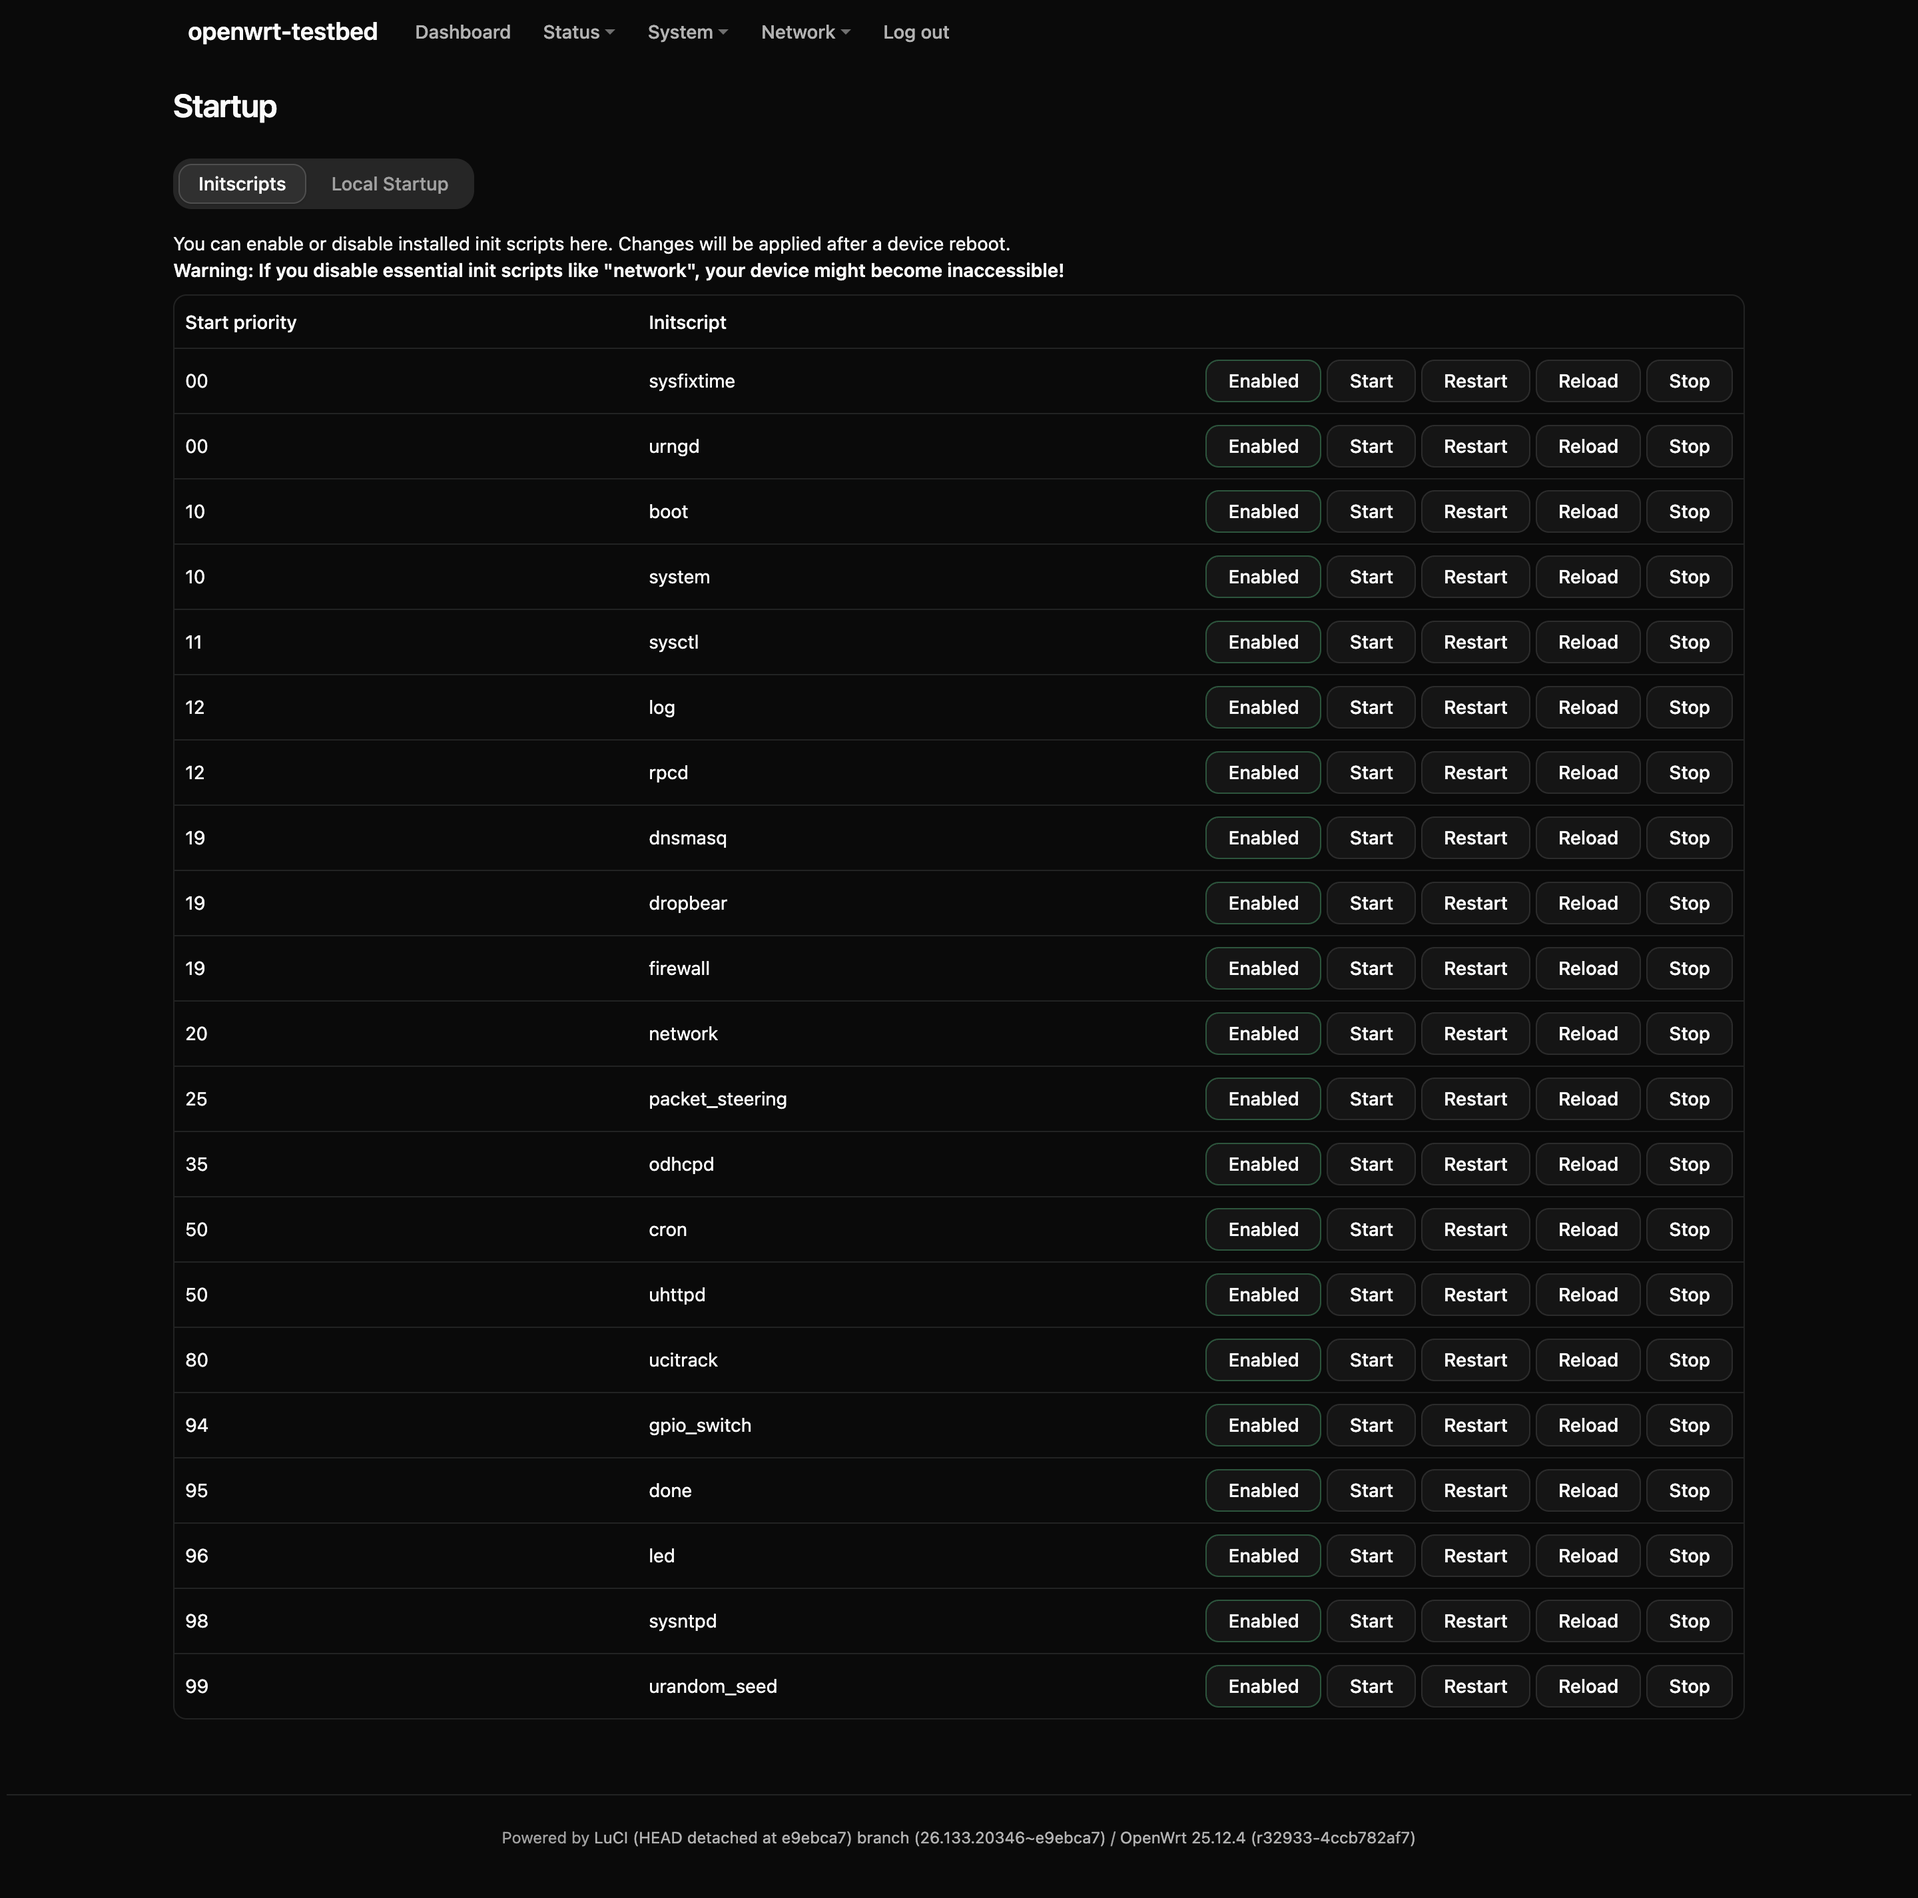
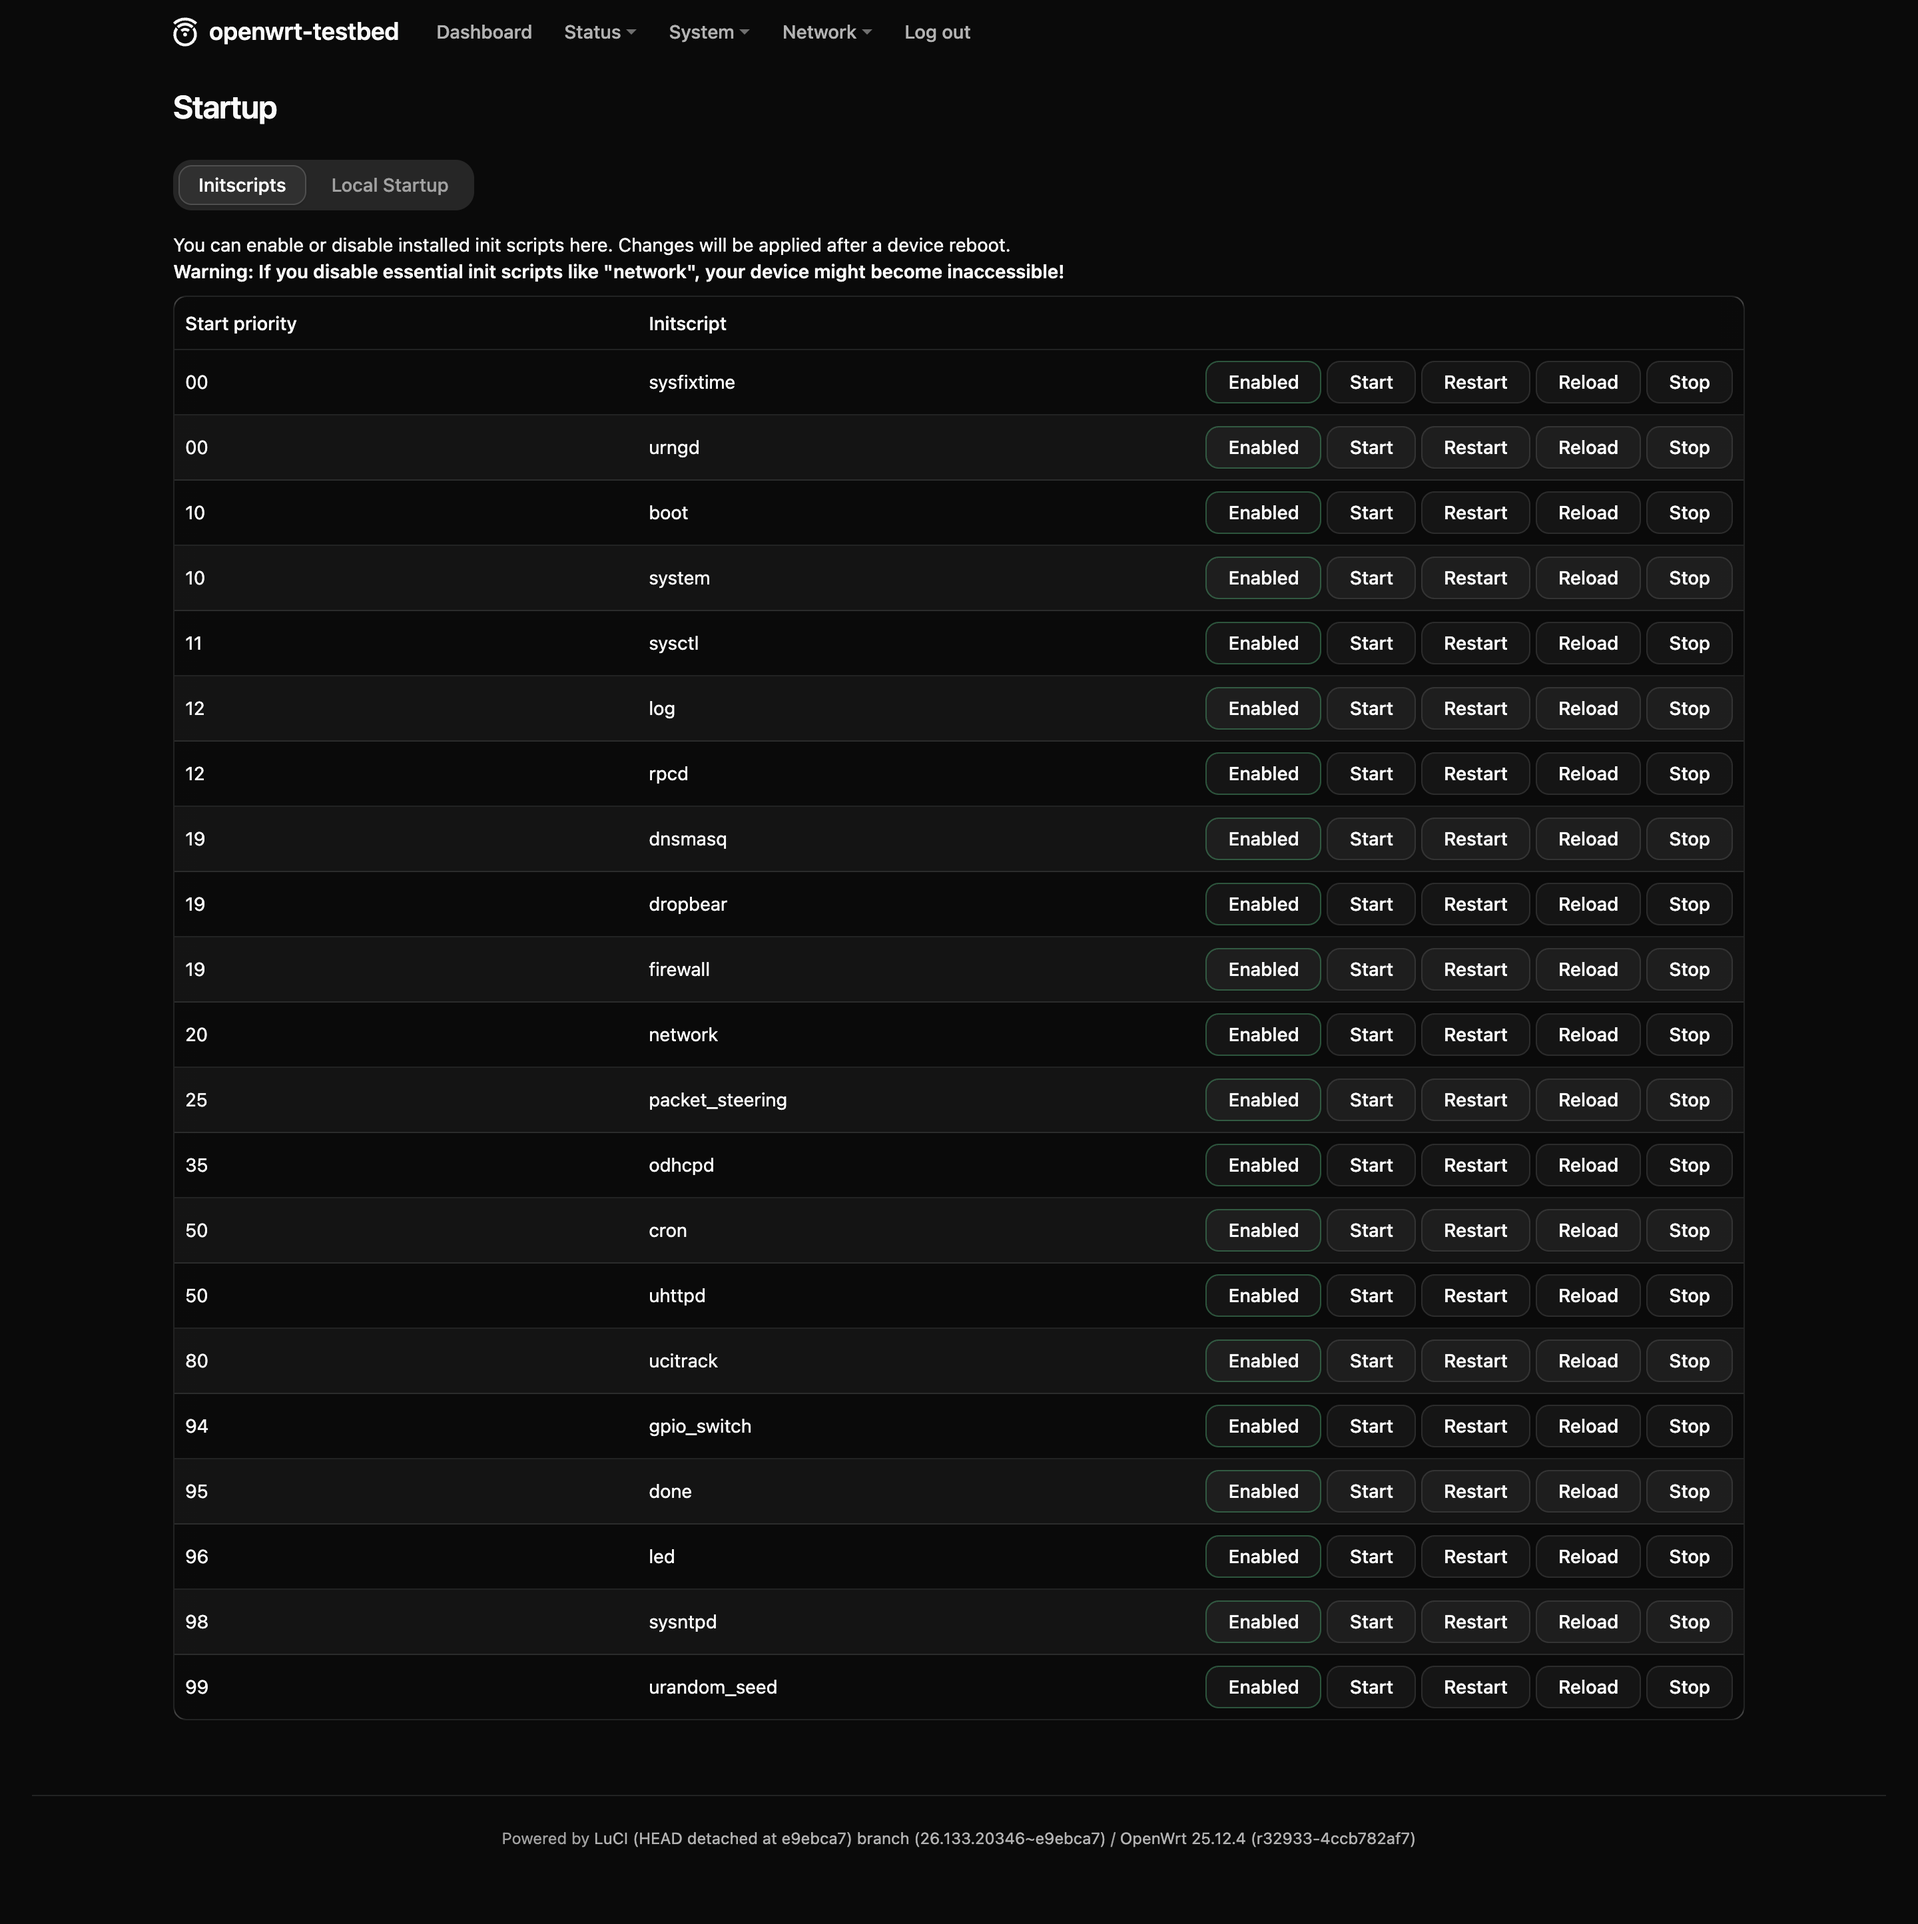
Refresh the screenshots and the README for what the theme does now
docs/img was showing the old three-row phone header, tables before the
zebra came back, the change dialog before its legend was spaced, and a
hero from before the header was rebuilt. All regenerated from the
bench.

Two of them are new, and they are the theme's own behaviour rather than
the core's — the menu sheet and a table scrolling inside itself — so
they come from states.mjs, which is the script that can drive an
interaction before it shoots. It grows an --out so those can land in
docs/img, and release.mjs --shots now runs it, along with the change
dialog: that frame was in docs/img with nothing in the repo able to
produce it, which is how it went stale unnoticed.

The README's browser floor was still Firefox 113. :has() is in eleven
places in the built CSS now and carries real layout, so it is 121 — the
same correction the 1.0.1 notes carried, which never made it here. The
sizes were stale too: 86 KB of cascade.css against the 73 KB claimed.

diff --git a/README.md b/README.md
@@ -2,14 +2,33 @@
 
 A theme for **LuCI**, the OpenWrt web interface, in the style of
 [shadcn/ui](https://ui.shadcn.com): cards, a segmented tab strip, bordered data
-tables and an `oklch` palette. Light and dark, and every LuCI page keeps working —
-nothing about the markup or the workflow changes, only how it looks.
+tables, a full-screen menu sheet on a phone and an `oklch` palette. Light and
+dark, and every LuCI page keeps working — nothing about the markup or the
+workflow changes, only how it looks.
 
 ![LuCI with the theme, dark and light](docs/img/hero.png)
 
 <p align="center">
   <a href="docs/screenshots.md"><b>More screenshots →</b></a><br>
   <sub>initscripts, interfaces, the dashboard, a modal, the login screen, a phone</sub>
+</p>
+
+## On a narrow screen
+
+The header collapses to one row — burger, mark, device name, poll button — and
+the menu opens as a sheet over the page: group labels in small caps, rows big
+enough to hit with a thumb, the page behind it locked and the sheet scrolling on
+its own. It needs no script of its own; the template puts a checkbox in front of
+the list LuCI builds, and the sheet is that checkbox's `:checked` state.
+
+A table too wide for the screen scrolls **itself** rather than dragging the page
+sideways with it, and marks the edge it can still be pulled from — a shade that
+appears only when there is somewhere to go, and never when the table fits.
+
+<p align="center">
+  <img src="docs/img/state-menu.png" alt="The menu sheet on a phone" width="260">
+  &nbsp;&nbsp;
+  <img src="docs/img/state-table-scroll.png" alt="A wide table scrolling inside itself" width="420">
 </p>
 
 ## Install
@@ -70,10 +89,12 @@ theme ships with shadcn **neutral**.
 
 - OpenWrt 25.12 with LuCI — built and tested against `luci-base`
   26.133.20346 on OpenWrt 25.12.4.
-- A browser from 2023 or later: Chrome 111+, Safari 16.4+, Firefox 113+. The
-  palette is `oklch()` and the translucent surfaces are `color-mix()`.
-- Very little flash: a 24 KB `.apk`, ~112 KB installed (`cascade.css` is 73 KB of
-  that, `mobile.css` 8 KB).
+- A browser from late 2023 or later: Chrome 111+, Safari 16.4+, Firefox 121+.
+  The palette is `oklch()`, the translucent surfaces are `color-mix()`, and some
+  of the layout keys off `:has()` — which is what puts the Firefox floor at 121
+  rather than the 113 the other two features would need.
+- Very little flash: a 21 KB `.apk`, ~136 KB installed (`cascade.css` is 86 KB of
+  that, `mobile.css` 9 KB, and 12 KB of JS for the menu and the login view).
 
 ## Building from source
 
@@ -113,9 +134,10 @@ audit is what catches it. Comments and docs are in English.
 ## Credits and licence
 
 Built on `luci-theme-bootstrap` from [LuCI](https://github.com/openwrt/luci):
-the ucode templates, `menu.js` and `sysauth.js` are its files, and the selector
-list is its contract with LuCI core — which is what keeps every page working.
-The styles were rewritten after the [shadcn/ui](https://ui.shadcn.com) component
-recipes.
+the ucode templates and `sysauth.js` started as its files, and the selector list
+is its contract with LuCI core — which is what keeps every page working. The
+theme's own `menu-shadcn.js` renders the menus and wraps wide tables in a scroll
+box. The styles were rewritten after the [shadcn/ui](https://ui.shadcn.com)
+component recipes.
 
 Apache-2.0, like the theme it comes from. See [LICENSE](LICENSE).

diff --git a/docs/screenshots.md b/docs/screenshots.md
@@ -44,12 +44,40 @@ The shadcn login block: a card on a muted canvas, labels above the fields.
 
 ![System settings, light variant](img/system-light.png)
 
+### Wide tables
+
+A table that does not fit scrolls inside itself instead of pushing the page
+sideways, and shades the edge it can still be pulled from. Here it is scrolled to
+the middle, so both edges are marked; at either end that side's shade is gone,
+and a table that fits shows neither.
+
+The frame stays put while the content slides under it, which is why the frame
+lives on the scroll box rather than on the table.
+
+![A wide table scrolling inside itself](img/state-table-scroll.png)
+
 ## On a phone
 
-The device name takes its own centred row, the menu wraps under it, and the tab
-strip spans the full width with the tabs laid out as a grid — a strip that wraps
-onto three lines is a blob. Option rows stack, labels above fields.
+The header is one row — burger, the OpenWrt mark, the device name, the poll
+button. The tab strip spans the full width with the tabs laid out as a grid: a
+strip that wraps onto three lines is a blob. Option rows stack, labels above
+fields.
 
 <p align="center">
   <img src="img/system-mobile.png" alt="System settings on a phone" width="300">
+</p>
+
+### The menu
+
+The whole menu opens as a sheet over the page: the top level becomes a group
+label in small caps, its children the rows under it, and the page behind stays
+put while the sheet scrolls.
+
+No script drives it. `header.ut` puts a checkbox in front of the `<ul>` LuCI
+fills at runtime, and everything below is that checkbox's `:checked` state —
+which is also why the sheet is a child of `<header>`, and why the bar's contents
+are lifted above it so the same control closes it.
+
+<p align="center">
+  <img src="img/state-menu.png" alt="The menu sheet on a phone" width="300">
 </p>
